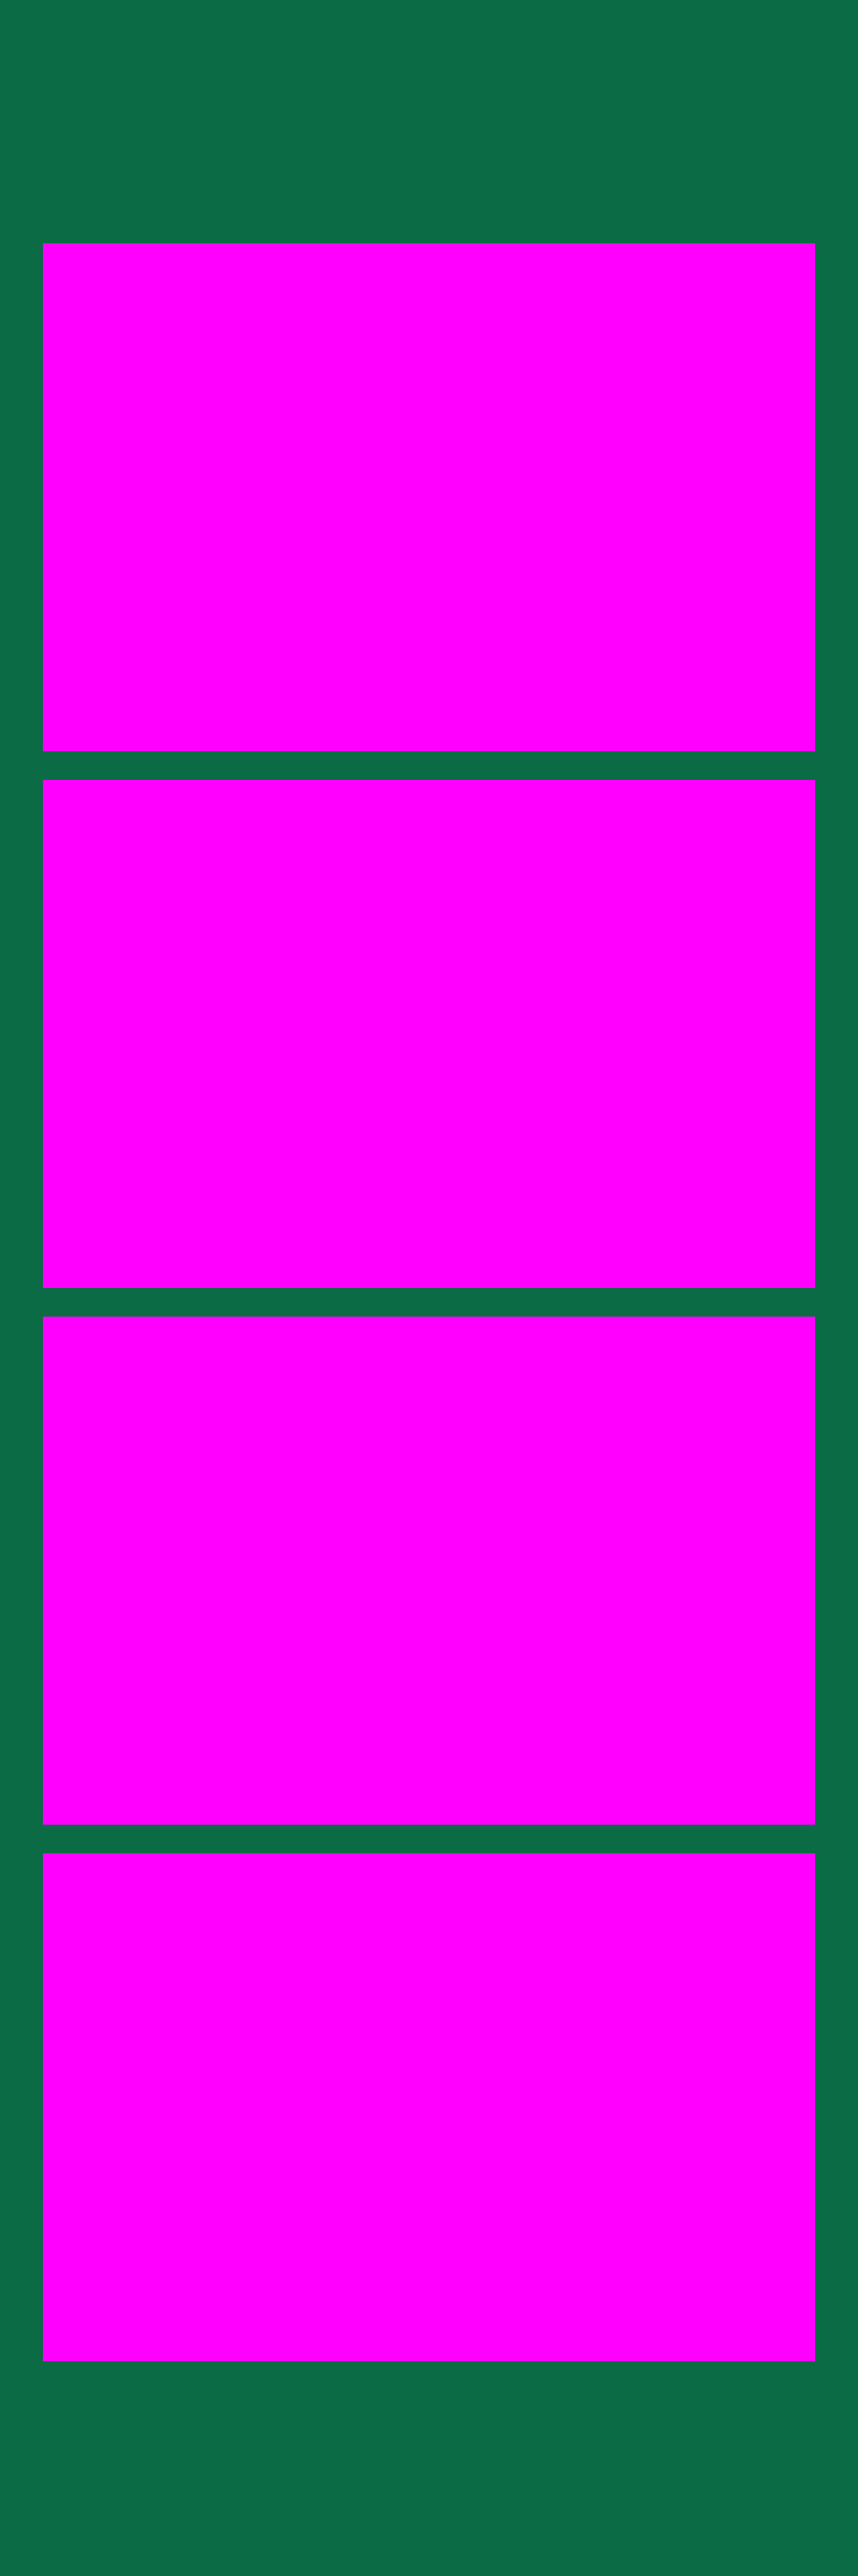
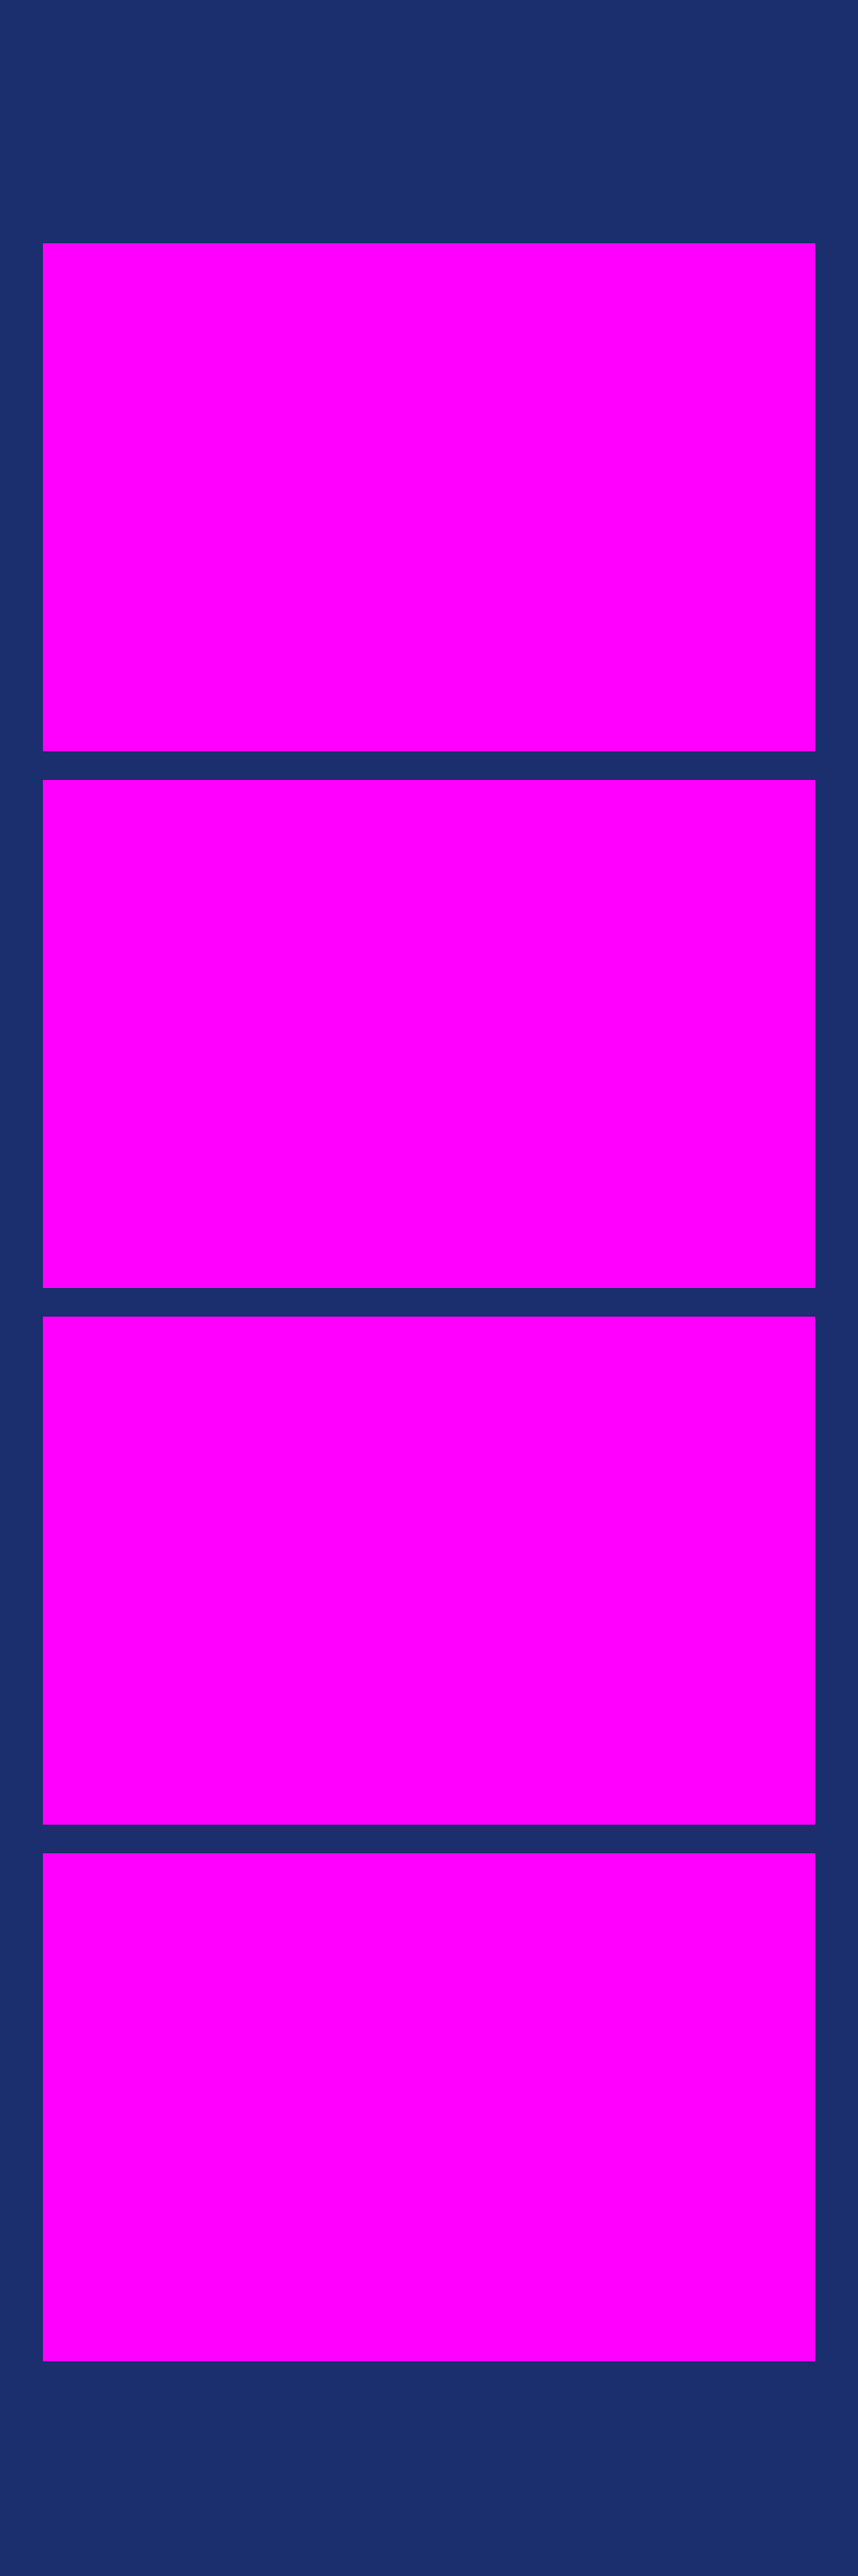
Add files via upload

Changed region(s): [[0.0, 0.0, 1.0, 1.0]]

diff --git a/public/index.html b/public/index.html
@@ -3,7 +3,7 @@
 <head>
 <meta charset="utf-8">
 <meta name="viewport" content="width=device-width, initial-scale=1, viewport-fit=cover, user-scalable=no">
-<meta name="theme-color" content="#052d1c">
+<meta name="theme-color" content="#101A47">
 <meta name="robots" content="noindex, nofollow">
 <title>Photobox SMK Muhada</title>
 <link rel="manifest" href="manifest.webmanifest">
@@ -13,9 +13,9 @@
      seragam ke layar perangkat oleh JavaScript (lihat fitStage). Semua ukuran di bawah
      dalam piksel kanvas tersebut, jadi tampilannya sama di HP, tablet, dan laptop. */
   :root {
-    --green: #0b6b44;
-    --green-dark: #073d27;
-    --gold: #f2b632;
+    --blue: #1A6FE8;        /* Biru Terang */
+    --blue-dark: #1B2E6E;   /* Biru Tua (warna dasar) */
+    --accent: #F28C00;      /* Oranye */
     --cream: #fff8e7;
     --danger: #ff8a80;
   }
@@ -27,7 +27,7 @@
     touch-action: manipulation;
     -webkit-user-select: none;
     user-select: none;
-    background: #052d1c;
+    background: #101A47;
     color: var(--cream);
     font-family: system-ui, -apple-system, "Segoe UI", Roboto, sans-serif;
   }
@@ -42,7 +42,7 @@
     transform: scale(var(--s, 1));
     transform-origin: center center;
     overflow: hidden;
-    background: radial-gradient(circle at 50% 30%, var(--green) 0%, var(--green-dark) 70%);
+    background: radial-gradient(circle at 50% 30%, rgba(26,111,232,.4) 0%, transparent 70%), var(--blue-dark);
   }
 
   #rotate {
@@ -57,8 +57,8 @@
     font-size: 22px;
     font-weight: 700;
     line-height: 1.5;
-    background: #052d1c;
-    color: var(--gold);
+    background: #101A47;
+    color: var(--accent);
   }
   @media (max-aspect-ratio: 1/1) { #rotate { display: flex; } }
 
@@ -76,7 +76,7 @@
   .screen.active { display: flex; }
 
   h1 { font-size: 120px; letter-spacing: 10px; font-weight: 800; color: var(--cream); }
-  .badge { color: var(--gold); font-weight: 700; letter-spacing: 4px; font-size: 26px; }
+  .badge { color: var(--accent); font-weight: 700; letter-spacing: 4px; font-size: 26px; }
   .sub { max-width: 900px; font-size: 32px; line-height: 1.5; opacity: .92; }
   .notice { max-width: 820px; font-size: 20px; opacity: .7; line-height: 1.4; }
   .msg { min-height: 1.4em; max-width: 900px; color: var(--danger); font-size: 24px; line-height: 1.4; }
@@ -85,8 +85,8 @@
     font: inherit;
     border: 0;
     cursor: pointer;
-    color: var(--green-dark);
-    background: var(--gold);
+    color: var(--blue-dark);
+    background: var(--accent);
     border-radius: 999px;
     padding: 20px 44px;
     font-weight: 800;
@@ -101,14 +101,14 @@
 
   /* ---------- shoot ---------- */
   #s-shoot { justify-content: flex-start; padding-top: 36px; gap: 20px; }
-  #status { font-size: 46px; font-weight: 800; color: var(--gold); height: 56px; line-height: 56px; }
+  #status { font-size: 46px; font-weight: 800; color: var(--cream); height: 56px; line-height: 56px; }
   /* 1080 x 710 = tepat 2x jendela foto (540 x 355), jadi preview = hasil jepretan */
   .cam {
     position: relative;
     width: 1080px;
     height: 710px;
     background: #000;
-    box-shadow: 0 0 0 8px var(--gold);
+    box-shadow: 0 0 0 8px var(--accent);
     border-radius: 6px;
     overflow: hidden;
   }
@@ -135,11 +135,11 @@
     overflow: hidden;
     background: rgba(0,0,0,.25);
   }
-  .thumb.filled { border-style: solid; border-color: var(--gold); }
+  .thumb.filled { border-style: solid; border-color: var(--accent); }
   .thumb canvas { width: 100%; height: 100%; display: block; object-fit: cover; }
 
   /* ---------- process ---------- */
-  .spinner { width: 80px; height: 80px; border-radius: 50%; border: 8px solid rgba(255,248,231,.25); border-top-color: var(--gold); animation: spin 1s linear infinite; }
+  .spinner { width: 80px; height: 80px; border-radius: 50%; border: 8px solid rgba(255,248,231,.25); border-top-color: var(--accent); animation: spin 1s linear infinite; }
   @keyframes spin { to { transform: rotate(360deg); } }
 
   /* ---------- result ---------- */
@@ -153,7 +153,7 @@
     box-shadow: 0 16px 50px rgba(0,0,0,.5);
   }
   .side { display: flex; flex-direction: column; align-items: center; gap: 22px; width: 560px; }
-  .side h2 { font-size: 54px; color: var(--gold); }
+  .side h2 { font-size: 54px; color: var(--accent); }
   .qrbox {
     width: 400px;
     height: 400px;
@@ -161,17 +161,17 @@
     border-radius: 18px;
     padding: 16px;
     display: flex; align-items: center; justify-content: center;
-    color: var(--green-dark);
+    color: var(--blue-dark);
     font-weight: 700;
     font-size: 26px;
   }
   .qrbox svg { width: 100%; height: 100%; display: block; }
-  .qrbox .spinner { border-color: rgba(7,61,39,.2); border-top-color: var(--green); }
+  .qrbox .spinner { border-color: rgba(27,46,110,.2); border-top-color: var(--blue-dark); }
   #link { font-size: 22px; opacity: .85; word-break: break-all; min-height: 1.3em; }
   .hint { font-size: 24px; opacity: .9; line-height: 1.45; }
   .row { display: flex; gap: 16px; flex-wrap: wrap; justify-content: center; }
   .idle { width: 100%; height: 8px; border-radius: 4px; background: rgba(255,248,231,.15); overflow: hidden; }
-  .idle > div { height: 100%; width: 100%; background: var(--gold); transition: width 1s linear; }
+  .idle > div { height: 100%; width: 100%; background: var(--accent); transition: width 1s linear; }
 
   [hidden] { display: none !important; }
 </style>
@@ -448,22 +448,22 @@
     const x = c.getContext('2d');
     x.scale(S, S);
     const g = x.createLinearGradient(0, 0, 0, H);
-    g.addColorStop(0, '#0b6b44');
-    g.addColorStop(1, '#063d27');
+    g.addColorStop(0, '#1B2E6E');
+    g.addColorStop(1, '#142257');
     x.fillStyle = g;
     x.fillRect(0, 0, W, H);
-    x.strokeStyle = '#f2b632';
+    x.strokeStyle = '#F28C00';
     x.lineWidth = 6;
     x.strokeRect(12, 12, W - 24, H - 24);
     x.textAlign = 'center';
-    x.fillStyle = '#f2b632';
+    x.fillStyle = '#F28C00';
     x.font = '700 27px system-ui, sans-serif';
     x.fillText(B.line1, W / 2, 68);
     x.fillStyle = '#fff8e7';
     x.font = '800 72px system-ui, sans-serif';
     x.fillText(B.title, W / 2, 142);
     const footTop = slotY(CONFIG.shots - 1) + CONFIG.slot.h;
-    x.fillStyle = '#f2b632';
+    x.fillStyle = '#F28C00';
     x.font = '800 40px system-ui, sans-serif';
     x.fillText(B.footer1, W / 2, footTop + 62);
     x.fillStyle = '#fff8e7';
@@ -472,7 +472,7 @@
     for (let i = 0; i < CONFIG.shots; i++) {
       const y = slotY(i);
       x.clearRect(CONFIG.slot.x, y, CONFIG.slot.w, CONFIG.slot.h);
-      x.strokeStyle = '#f2b632';
+      x.strokeStyle = '#F28C00';
       x.lineWidth = 6;
       x.strokeRect(CONFIG.slot.x - 3, y - 3, CONFIG.slot.w + 6, CONFIG.slot.h + 6);
     }

diff --git a/functions/d/[id].js b/functions/d/[id].js
@@ -2,17 +2,17 @@
 const ID_RE = /^[a-hj-km-np-z2-9]{10}$/;
 
 const STYLE = `
-  :root{--green:#0b6b44;--dark:#073d27;--gold:#f2b632;--cream:#fff8e7}
+  :root{--blue:#1A6FE8;--dark:#1B2E6E;--accent:#F28C00;--cream:#fff8e7}
   *{box-sizing:border-box;margin:0;padding:0}
-  body{min-height:100vh;background:radial-gradient(circle at 50% 0,var(--green),var(--dark) 75%);color:var(--cream);
+  body{min-height:100vh;background:radial-gradient(circle at 50% 0,rgba(26,111,232,.4),transparent 75%),var(--dark);color:var(--cream);
     font-family:system-ui,-apple-system,"Segoe UI",Roboto,sans-serif;display:flex;flex-direction:column;align-items:center;
     gap:16px;padding:24px 16px 40px;text-align:center}
-  .badge{color:var(--gold);font-weight:700;letter-spacing:2px;font-size:13px}
+  .badge{color:var(--accent);font-weight:700;letter-spacing:2px;font-size:13px}
   h1{font-size:26px}
   img{max-width:min(320px,80vw);width:100%;height:auto;background:#fff;border-radius:6px;box-shadow:0 12px 40px rgba(0,0,0,.45)}
   .btns{display:flex;flex-direction:column;gap:12px;width:min(320px,80vw)}
   a.btn,button{display:block;font:inherit;font-weight:800;font-size:18px;padding:16px;border-radius:999px;border:0;
-    background:var(--gold);color:var(--dark);text-decoration:none;cursor:pointer}
+    background:var(--accent);color:var(--dark);text-decoration:none;cursor:pointer}
   button.ghost{background:transparent;color:var(--cream);border:2px solid rgba(255,248,231,.55)}
   p.note{font-size:13px;opacity:.75;max-width:320px;line-height:1.45}
   [hidden]{display:none!important}

diff --git a/README.md b/README.md
@@ -12,11 +12,17 @@ Photobox berbasis web untuk acara sekolah: kamera depan, 4 foto otomatis, strip 
 ## Rasio tetap di semua perangkat
 
 - **Tampilan**: seluruh aplikasi digambar pada kanvas tetap **16:9 (1920 x 1080)** lalu diskalakan seragam
-  ke layar apa pun. Di layar dengan rasio lain (misalnya iPad 4:3) muncul pita hijau di tepi, isinya tidak
+  ke layar apa pun. Di layar dengan rasio lain (misalnya iPad 4:3) muncul pita biru tua di tepi, isinya tidak
   berubah bentuk. Jika perangkat berdiri tegak (potret), muncul pesan agar diputar ke mode lanskap.
 - **Foto**: apa pun rasio kameranya (4:3, 16:9, dll.), bagian tengah selalu dipotong ke rasio jendela foto
   **3:2 (540:355)**. Yang terlihat di preview sama persis dengan hasil jepretan.
 - **Hasil**: strip selalu 1200 x 3600 px (1:3).
+
+## Warna
+
+Palet mengikuti brand Muhada Berdaya: **Biru Tua `#1B2E6E`** (warna dasar), **Biru Terang `#1A6FE8`** (sorot latar),
+dan **Oranye `#F28C00`** (aksen tombol, garis, judul). Nilainya ada di bagian `:root` CSS dalam `public/index.html`
+(dan di `functions/d/[id].js` untuk halaman unduh).
 
 ## Isi proyek
 
@@ -100,12 +106,12 @@ Ukuran kanvas: **1200 x 3600 px** (rasio 1:3). Ada 4 jendela foto, masing-masing
 Dua cara membuat jendelanya:
 
 - **Tanpa Canva Pro (disarankan):** unggah `template/frame-template.png` ke Canva sebagai gambar latar
-  (kotak magenta = jendela foto). Desain di area hijau, tapi **jangan menutupi kotak magenta**.
+  (kotak magenta = jendela foto). Desain di area biru, tapi **jangan menutupi kotak magenta**.
   Ekspor PNG biasa. Aplikasi otomatis mengubah warna magenta murni `#FF00FF` menjadi transparan.
 - **Dengan Canva Pro:** ekspor PNG dengan opsi "Latar belakang transparan", area jendela dibiarkan kosong.
 
 Simpan hasilnya sebagai `public/frame.png` lalu deploy ulang. Jika `frame.png` tidak ada,
-aplikasi memakai frame contoh bawaan (hijau-emas, teks SMK Muhammadiyah Todanan).
+aplikasi memakai frame contoh bawaan (biru tua dengan aksen oranye, teks SMK Muhammadiyah Todanan).
 
 Teks pada frame bawaan bisa diubah di bagian `CONFIG.brand` dalam `public/index.html`.
 
